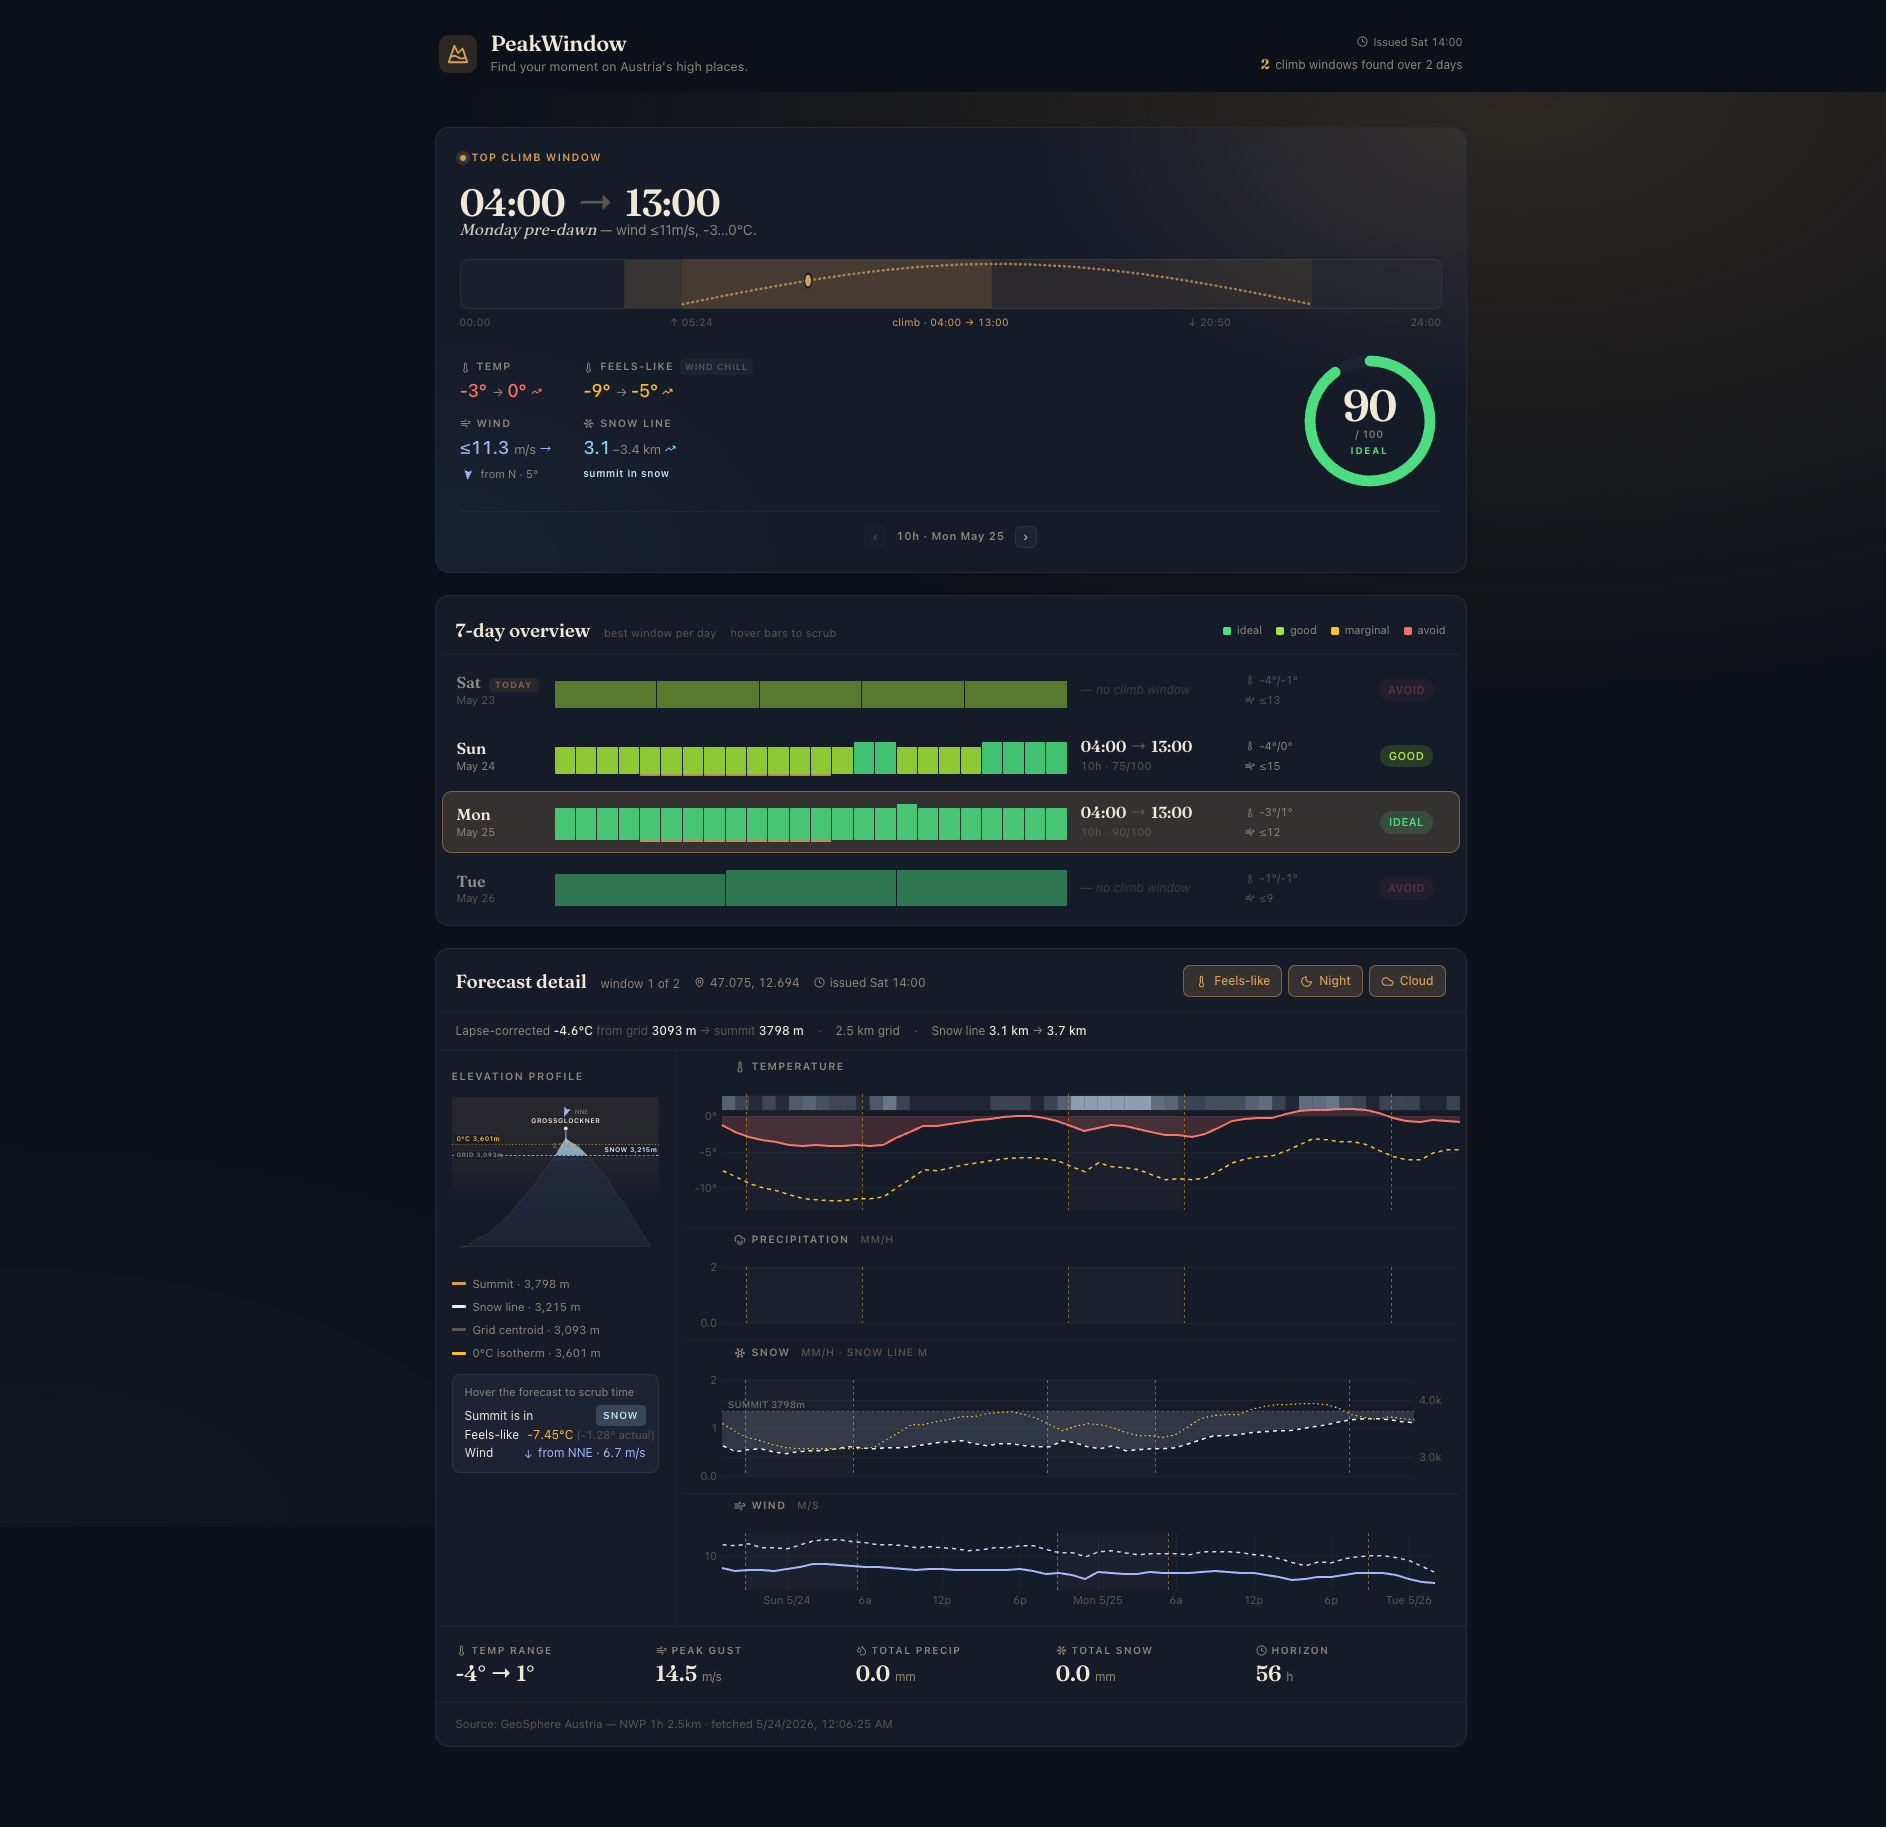
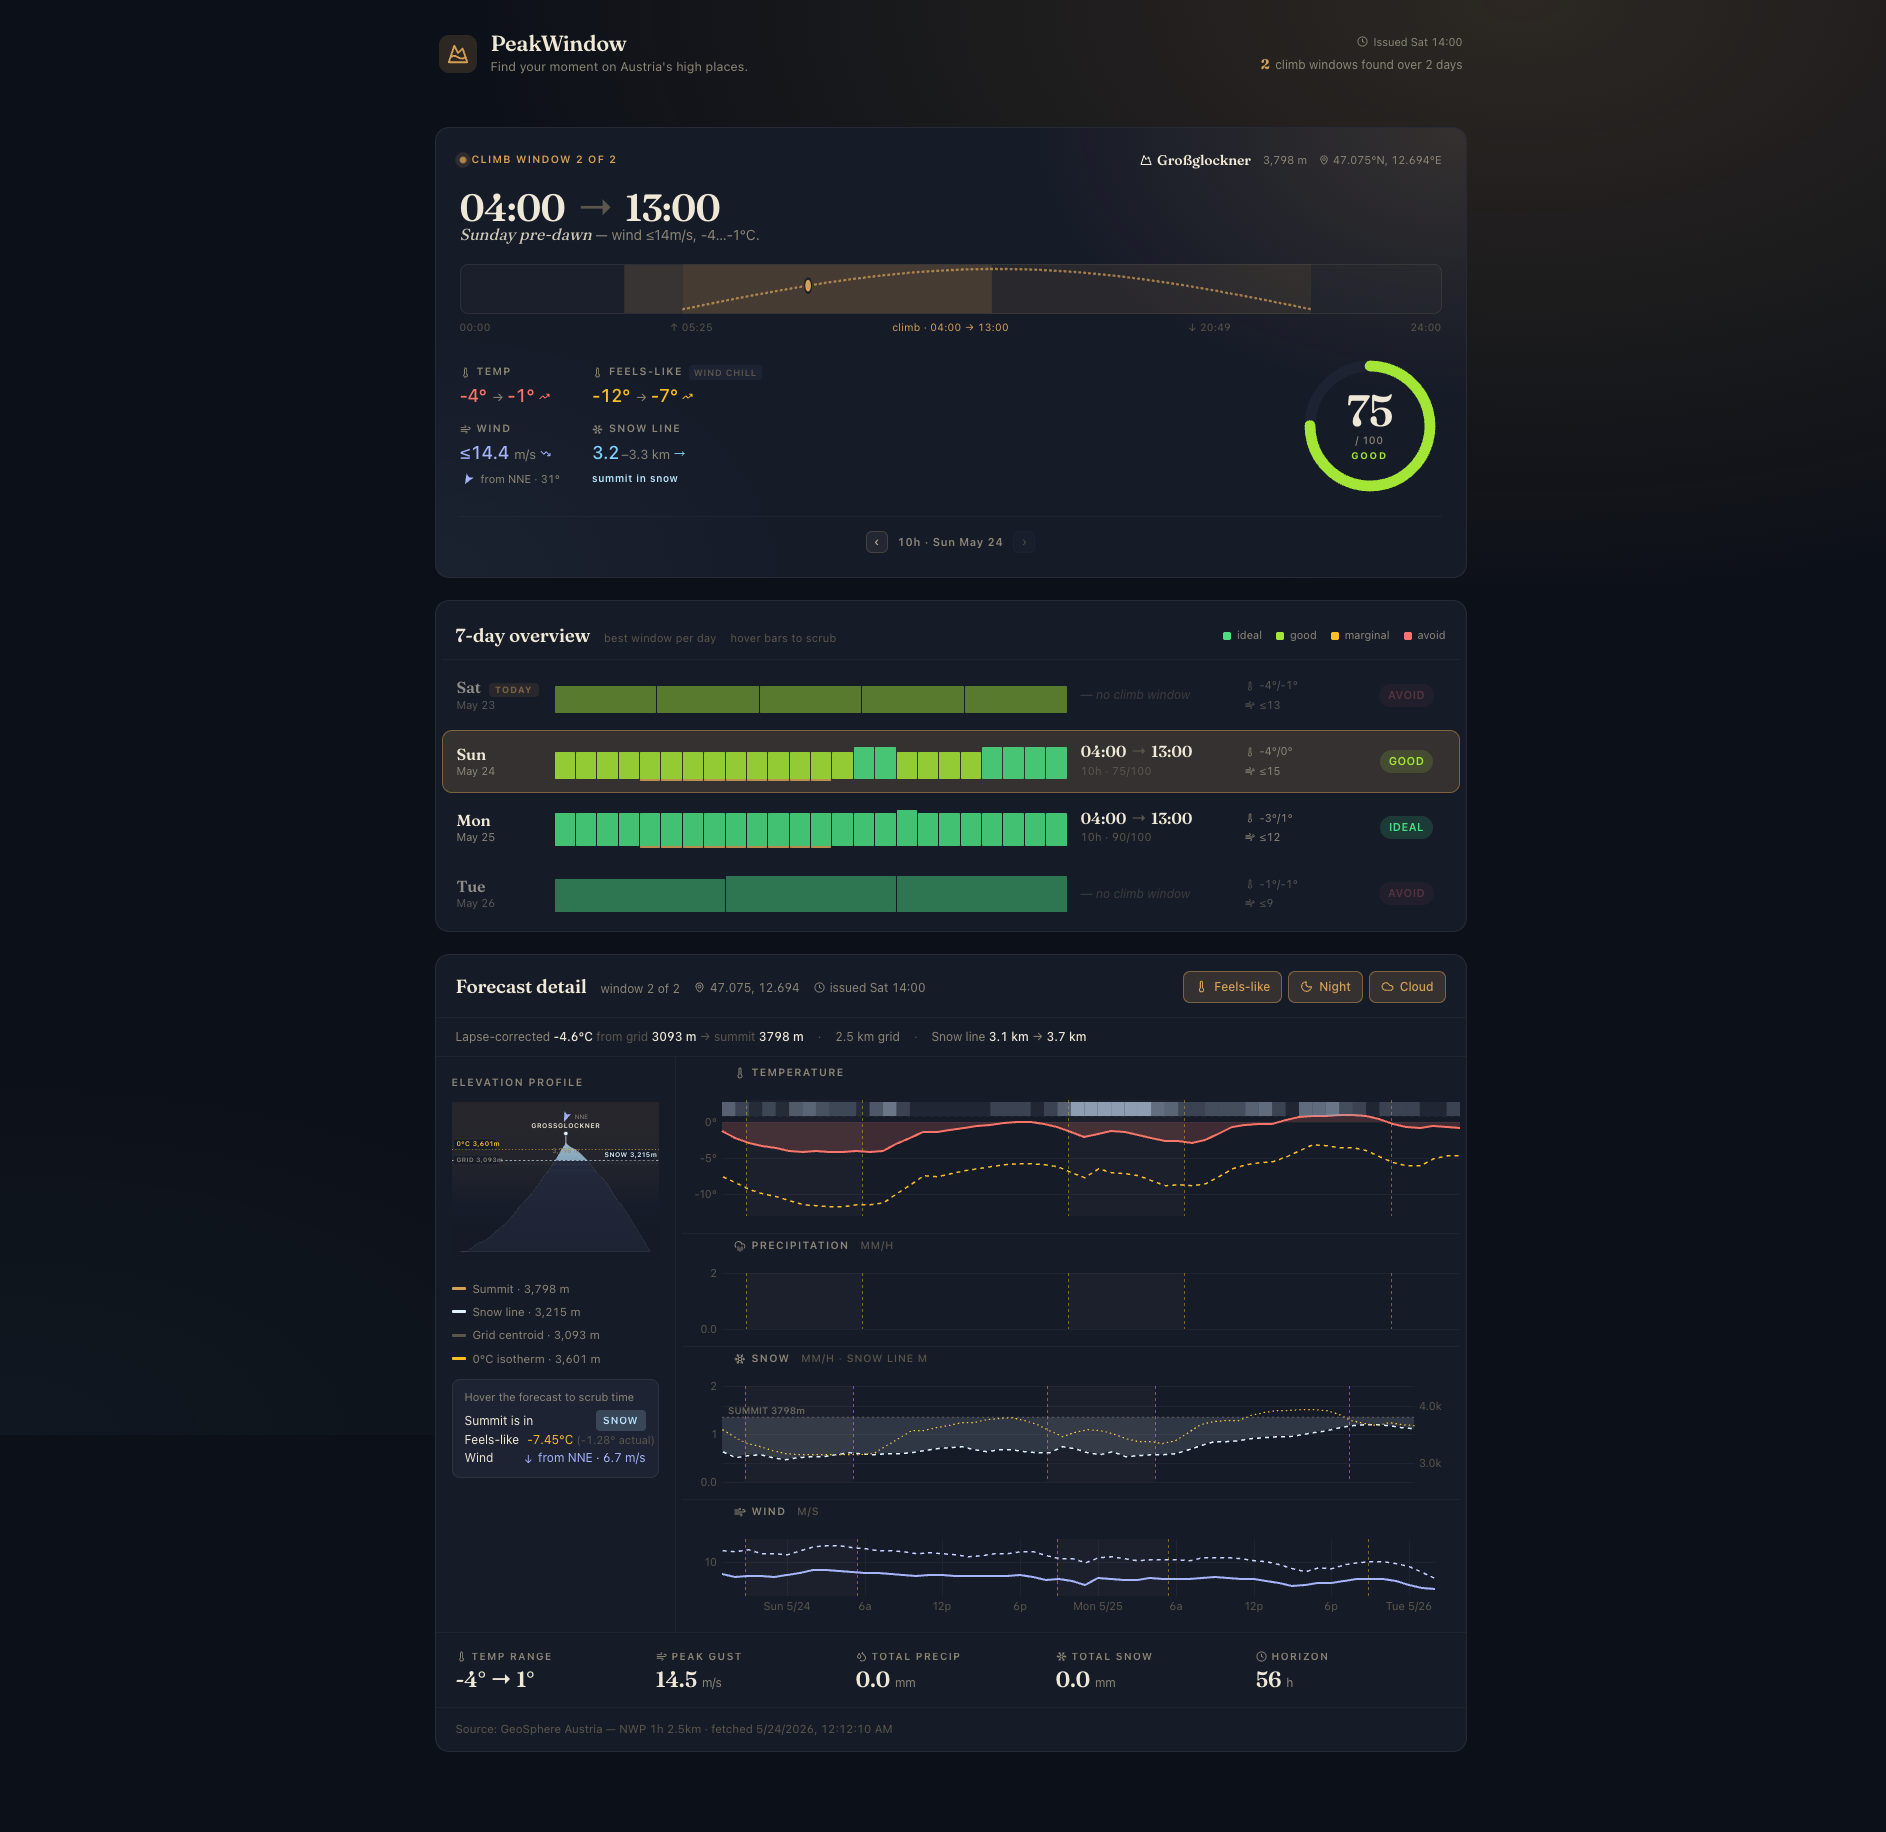
Add peak name, elevation, and coordinates to hero card
Restores the mountain info lost when PeakCard was removed.
Shows peak name with icon, summit elevation, and lat/lon
in the eyebrow row of the hero card.

diff --git a/src/components/HeroWindow.tsx b/src/components/HeroWindow.tsx
@@ -1,4 +1,4 @@
-import { CloudFog, Droplets, MoveRight, Snowflake, Thermometer, TrendingDown, TrendingUp, Wind } from "lucide-react";
+import { CloudFog, Droplets, MapPin, Mountain, MoveRight, Snowflake, Thermometer, TrendingDown, TrendingUp, Wind } from "lucide-react";
 import { useMemo } from "react";
 import { ratingColor } from "../rating-color.ts";
 import type { ClimbWindow, ScoredHour, SunMarker } from "../types.ts";
@@ -208,12 +208,15 @@ interface HeroWindowProps {
   totalHours: number;
   selectedIdx: number;
   totalWindows: number;
+  peakName?: string | null;
+  lat?: number;
+  lon?: number;
   summitElevation?: number | null;
   onPrev: () => void;
   onNext: () => void;
 }
 
-export function HeroWindow({ window: w, hours, sunMarkers, totalHours, selectedIdx, totalWindows, summitElevation, onPrev, onNext }: HeroWindowProps) {
+export function HeroWindow({ window: w, hours, sunMarkers, totalHours, selectedIdx, totalWindows, peakName, lat, lon, summitElevation, onPrev, onNext }: HeroWindowProps) {
   if (!w) {
     return (
       <div className={`${s.card} ${s.hero}`}>
@@ -270,6 +273,11 @@ export function HeroWindow({ window: w, hours, sunMarkers, totalHours, selectedI
         <span className={s.pulse}>
           {selectedIdx === 0 ? "Top climb window" : `Climb window ${selectedIdx + 1} of ${totalWindows}`}
         </span>
+        <div className={s.peakInfo}>
+          {peakName && <span className={s.peakName}><Mountain size={12} />{peakName}</span>}
+          {summitElevation != null && <span className={s.peakMeta}>{summitElevation.toLocaleString()} m</span>}
+          {lat != null && lon != null && <span className={s.peakMeta}><MapPin size={10} />{lat.toFixed(3)}&deg;N, {lon.toFixed(3)}&deg;E</span>}
+        </div>
       </div>
       <div>
         <div className={s.heroTime}>

diff --git a/src/components/HeroWindow.module.css b/src/components/HeroWindow.module.css
@@ -102,6 +102,31 @@
 }
 .navBtn:disabled { opacity: 0.3; cursor: not-allowed; }
 
+.peakInfo {
+  display: flex;
+  align-items: center;
+  gap: 12px;
+  flex-wrap: wrap;
+}
+.peakName {
+  display: inline-flex;
+  align-items: center;
+  gap: 5px;
+  font-family: var(--font-display);
+  font-size: 14px;
+  font-weight: 600;
+  letter-spacing: -0.01em;
+  color: var(--text);
+}
+.peakMeta {
+  display: inline-flex;
+  align-items: center;
+  gap: 4px;
+  font-size: 11px;
+  color: var(--text-muted);
+  font-variant-numeric: tabular-nums;
+}
+
 .heroTime {
   font-family: var(--font-display);
   font-weight: 600;

diff --git a/src/mcp-app.tsx b/src/mcp-app.tsx
@@ -129,7 +129,11 @@ function PeakWindowApp() {
             totalHours={data.series.time.length}
             selectedIdx={selectedIdx}
             totalWindows={windows.length}
+            peakName={data.peakName}
+            lat={data.lat}
+            lon={data.lon}
             summitElevation={data.summitElevationM}
+
             onPrev={() => setSelectedIdx(Math.max(0, selectedIdx - 1))}
             onNext={() => setSelectedIdx(Math.min(windows.length - 1, selectedIdx + 1))}
           />

diff --git a/src/test-ui.tsx b/src/test-ui.tsx
@@ -177,7 +177,11 @@ function TestApp() {
         totalHours={data.series.time.length}
         selectedIdx={selectedIdx}
         totalWindows={windows.length}
+        peakName={data.peakName}
+        lat={data.lat}
+        lon={data.lon}
         summitElevation={data.summitElevationM}
+
         onPrev={() => setSelectedIdx(Math.max(0, selectedIdx - 1))}
         onNext={() => setSelectedIdx(Math.min(windows.length - 1, selectedIdx + 1))}
       />
